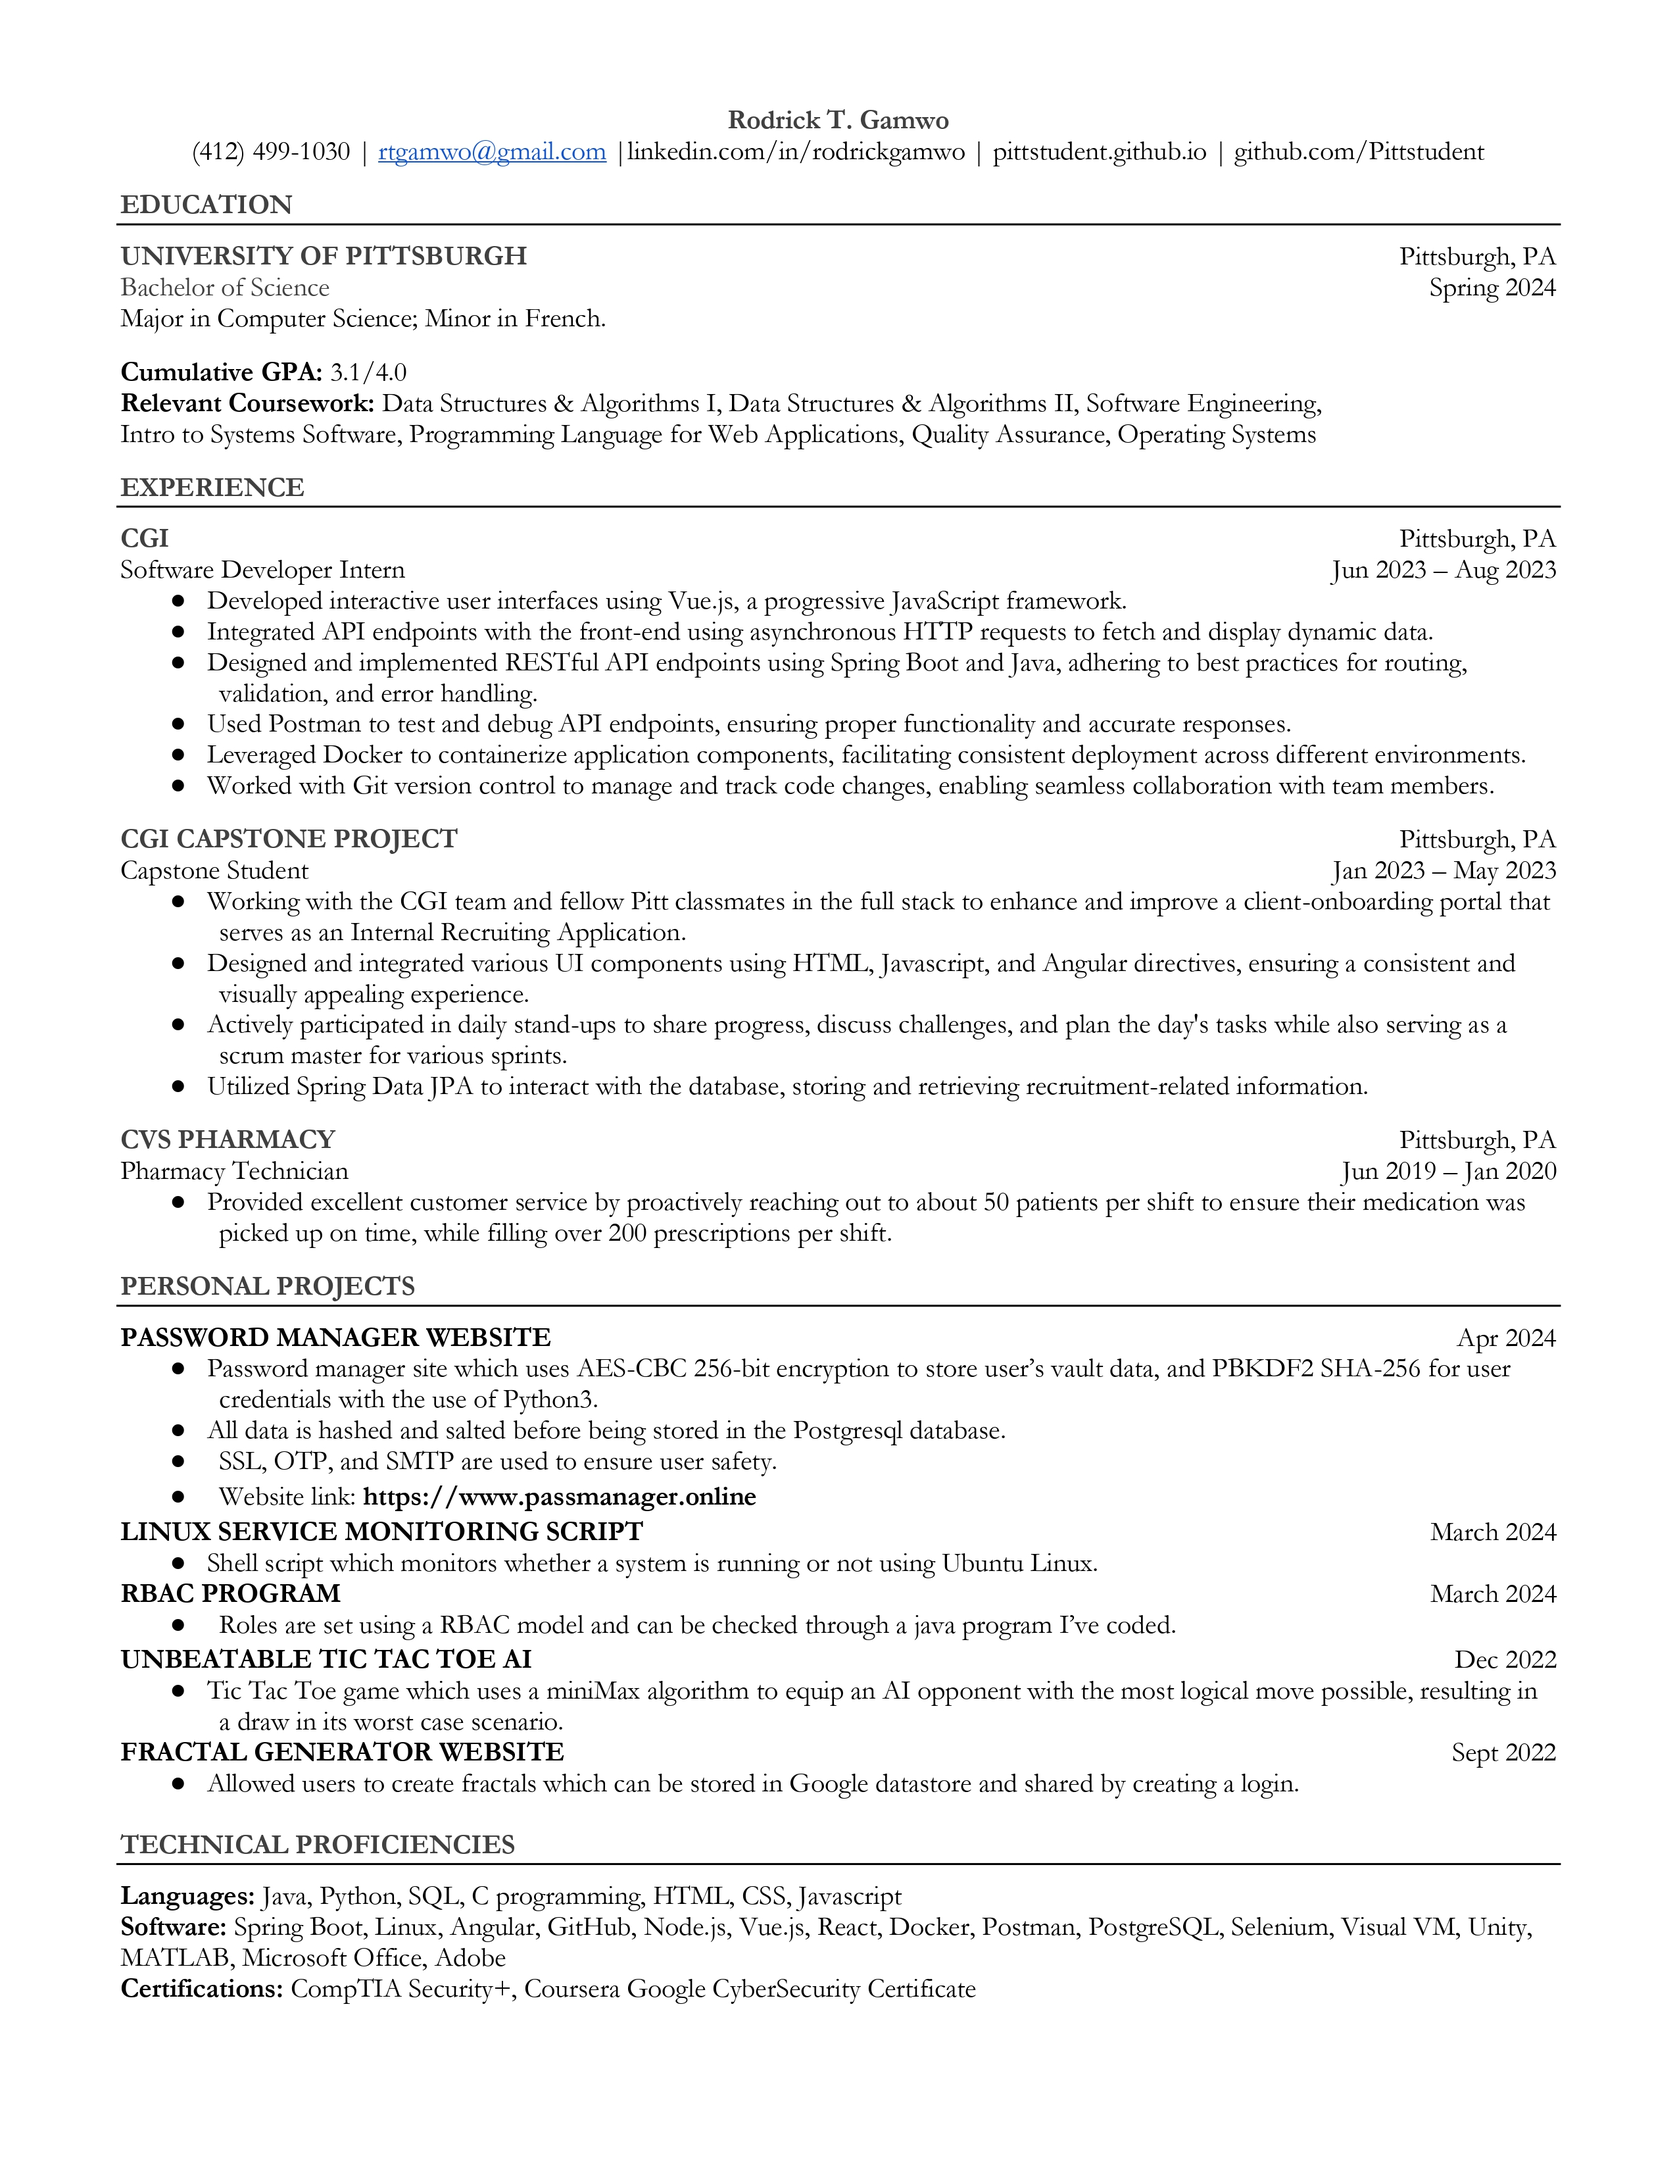
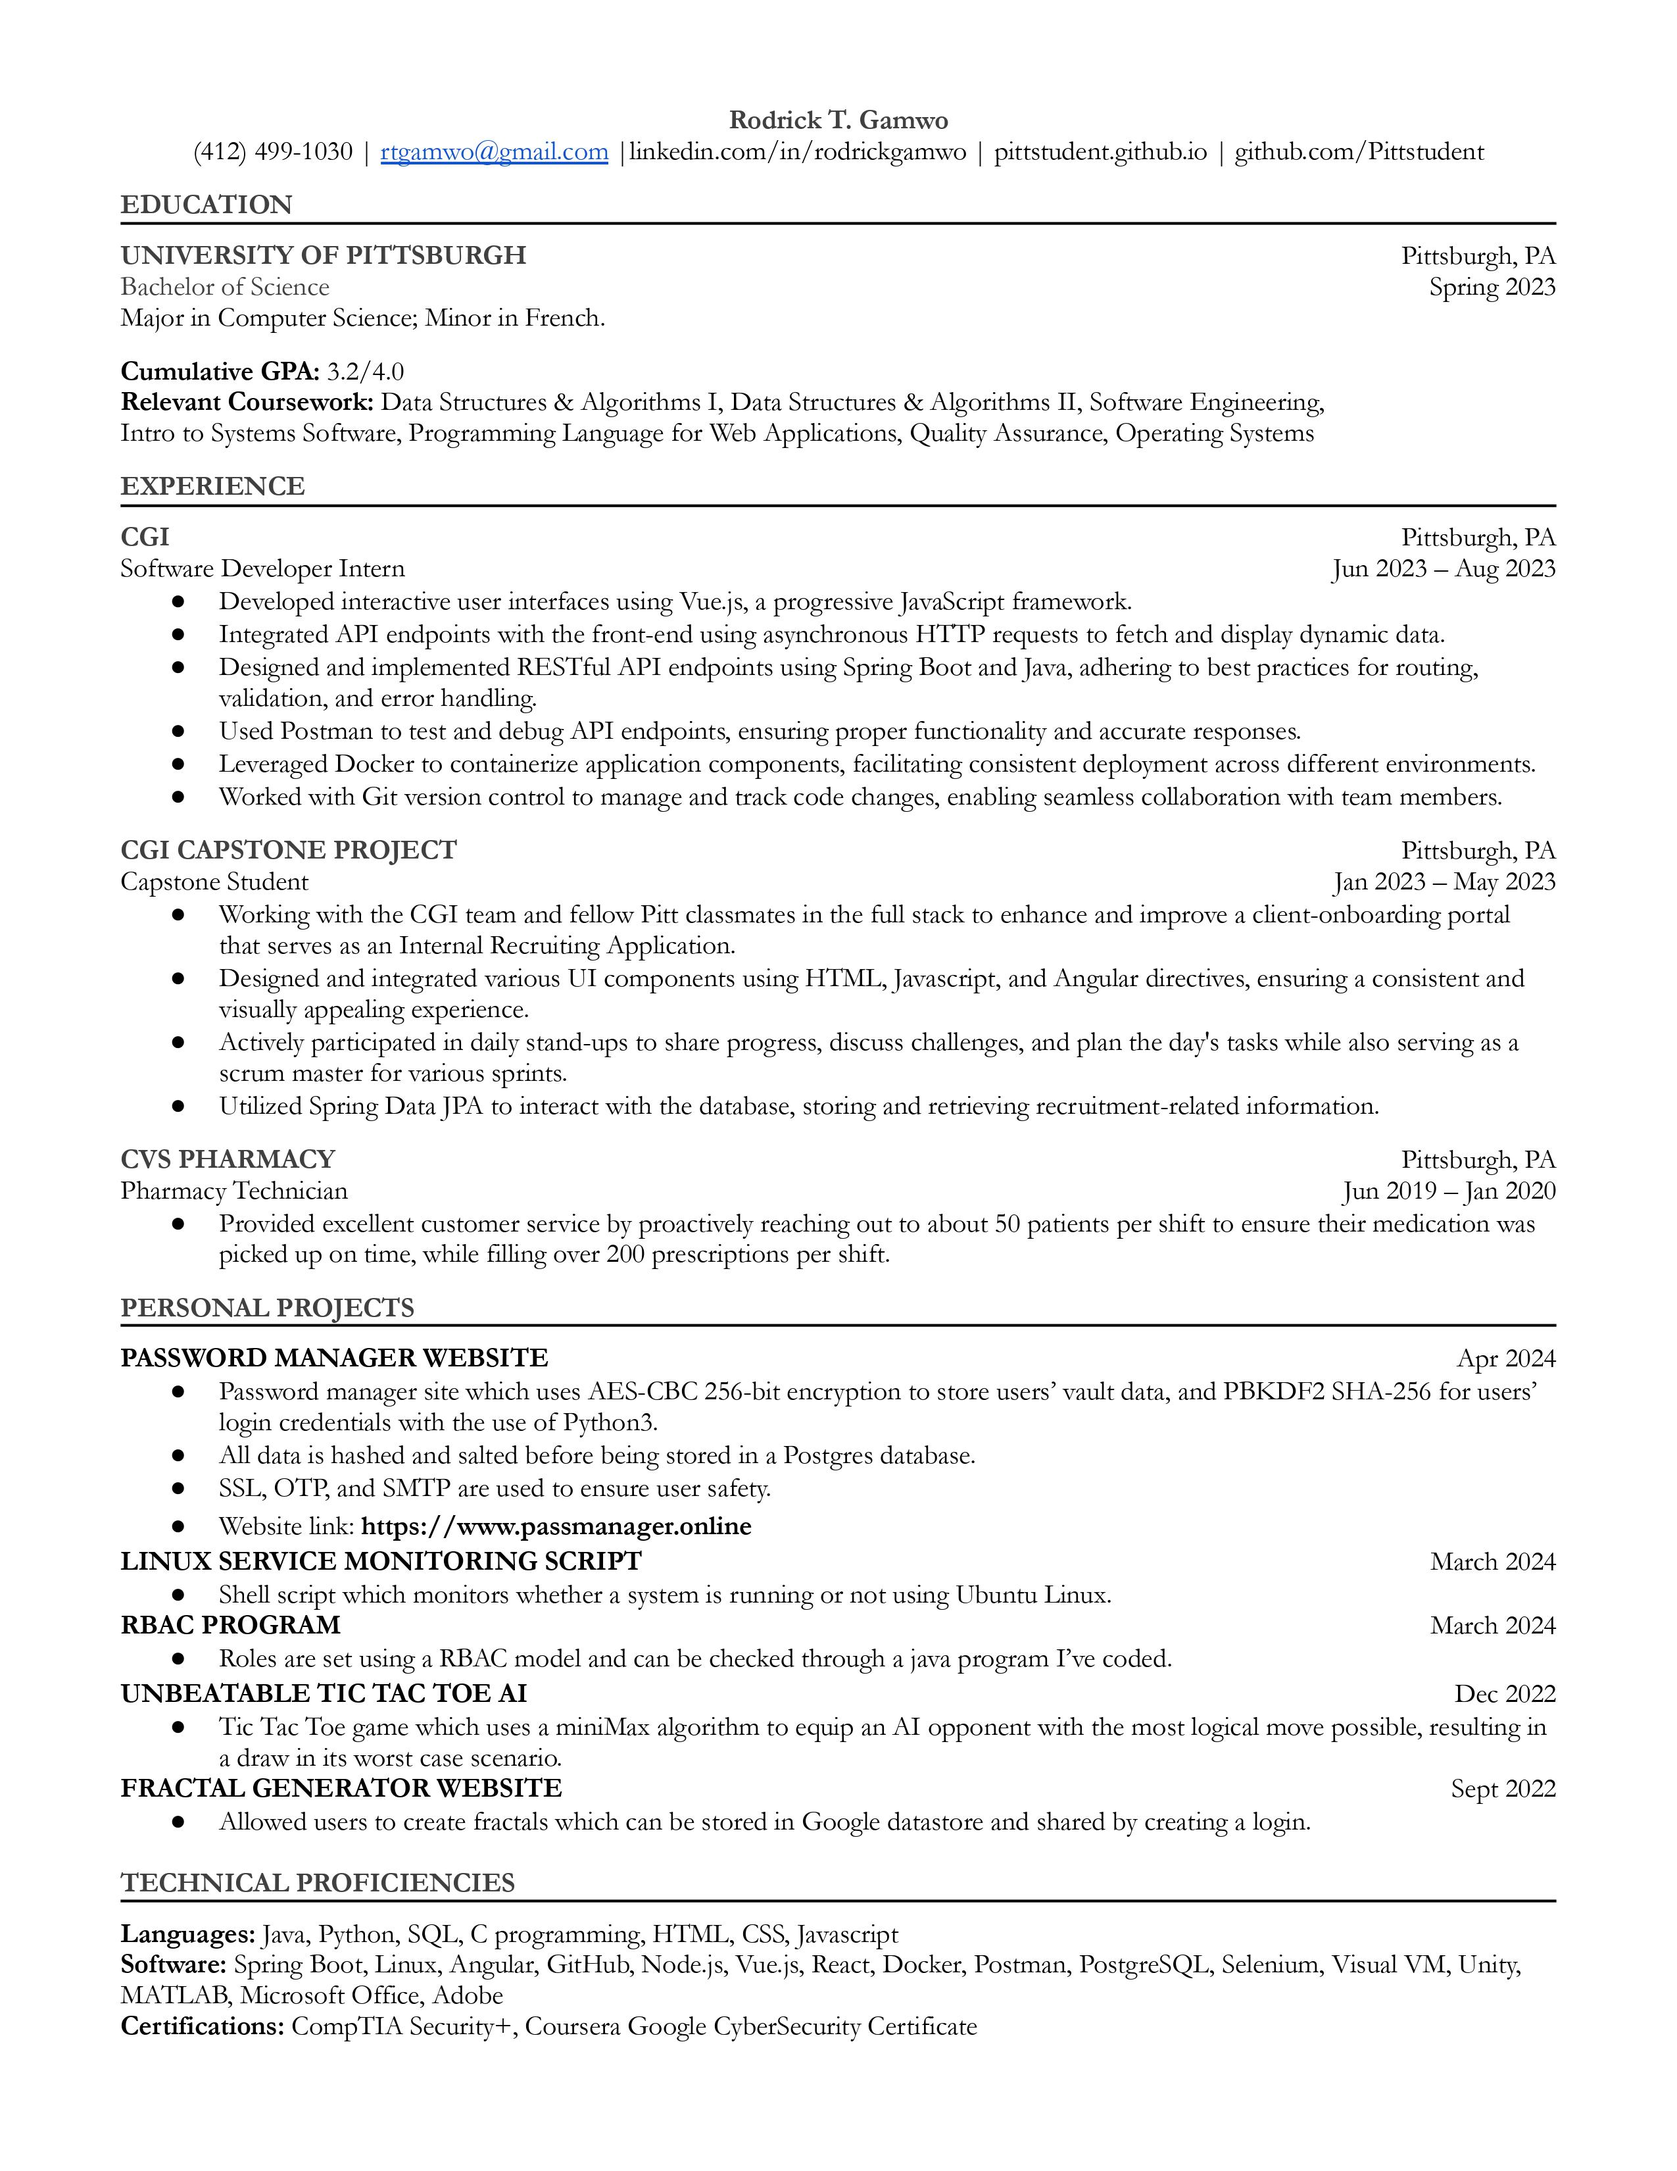
resume changes

diff --git a/index.html b/index.html
@@ -21,7 +21,7 @@
         <br>
         <h1><center>Education</center></h1>
 
-        <center><strong>2017-2024</strong><br><br>
+        <center><strong>2017-2023</strong><br><br>
             University of Pittsburgh, Pittsburgh, PA<br>
             Major: Computer Science <br>
             Minor: French<br>
